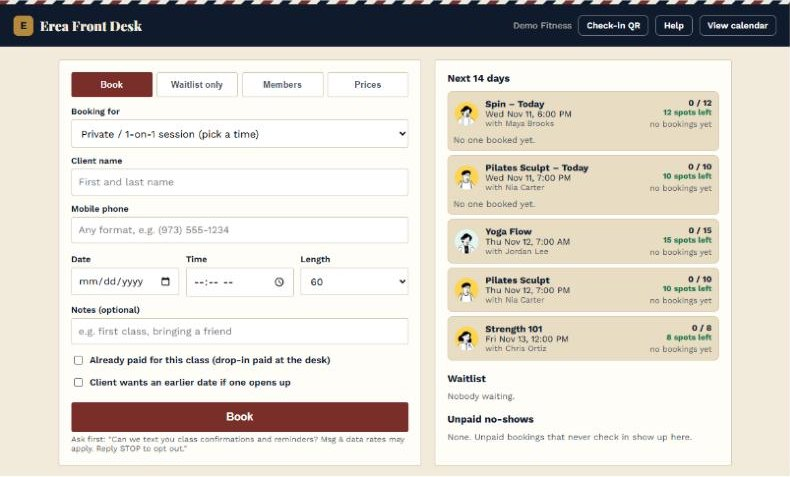
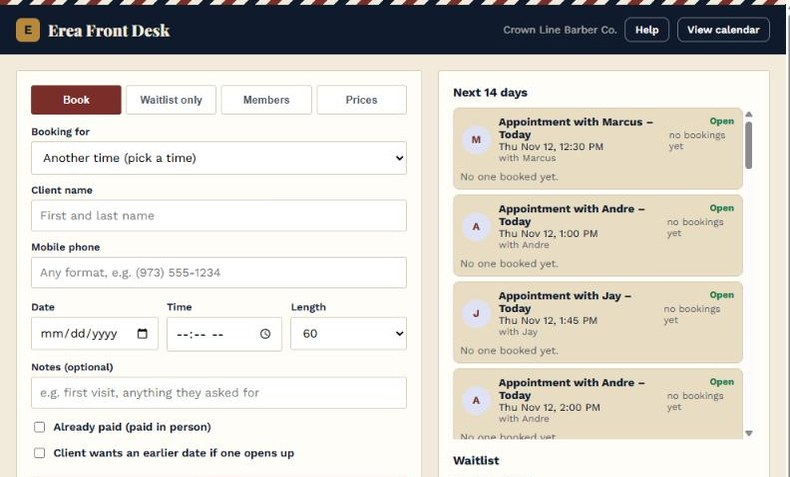
Barber sample: Crown Line uses its own barbershop booking page (appointments by barber), barber practice demo, new Crown Front Desk shot
Claude-Session: https://claude.ai/code/session_01HusocnsQM94pLVoFq2NPYV

diff --git a/demo.js b/demo.js
@@ -6,6 +6,8 @@
   var $ = function (s, r) { return (r || document).querySelector(s); };
   var esc = function (s) { return String(s).replace(/[&<>"']/g, function (c) { return { '&': '&amp;', '<': '&lt;', '>': '&gt;', '"': '&quot;', "'": '&#39;' }[c]; }); };
   var bizName = C.defaultName;
+  var A = !!C.appt; // appointment businesses (barbers etc.): times grouped under each person
+  function lab(s) { return A ? (s.who || s.name) : s.name; }
 
   // ---------- sample data (fictional) ----------
   var DAYS = [];
@@ -80,16 +82,29 @@
     if (sheet) {
       var s = sheet, full = spotsLeft(s) <= 0;
       h += '<div class="sheet"><button class="back" data-act="back">← Back</button>' +
-        '<h3>' + esc(s.name) + '</h3><p class="muted">' + fmtWhen(s) + (s.where ? '<br>📍 ' + esc(s.where) : '') + '</p>' +
-        (full ? '<p class="full-note">This one is full. Join the waitlist and you\'ll get a text the moment a spot opens.</p>' : '') +
+        '<h3>' + esc(A ? 'Your appointment' : s.name) + '</h3><p class="muted">' + (A ? 'with ' + esc(s.who) + '<br>' : '') + fmtWhen(s) + (s.where ? '<br>📍 ' + esc(s.where) : '') + '</p>' +
+        (full ? '<p class="full-note">' + (A ? 'This time is taken. Join the waitlist and you\'ll get a text if it opens up.' : 'This one is full. Join the waitlist and you\'ll get a text the moment a spot opens.') + '</p>' : '') +
         '<label>Your name<input id="yname" autocomplete="off" placeholder="e.g. Maya" maxlength="30"></label>' +
         '<label>Mobile number<input id="yphone" inputmode="tel" autocomplete="off" placeholder="(555) 555-0123" maxlength="20"></label>' +
         '<label class="chk"><input type="checkbox" id="yok"><span>I agree to get booking texts from <span data-biz>' + esc(bizName) + '</span>. Reply STOP to opt out.</span></label>' +
         '<p class="tiny">Practice demo: this number isn\'t saved and no real text is sent.</p>' +
-        '<button class="big" data-act="' + (full ? 'wait' : 'book') + '">' + (full ? 'Join the waitlist' : 'Book my spot') + '</button></div>';
+        '<button class="big" data-act="' + (full ? 'wait' : 'book') + '">' + (full ? 'Join the waitlist' : (A ? 'Book this time' : 'Book my spot')) + '</button></div>';
     } else {
       h += '<div class="chips">' + DAYS.map(function (d, i) { return '<button class="chip' + (i === state.cDay ? ' on' : '') + '" data-cday="' + i + '">' + dayLabel(d, i) + '</button>'; }).join('') + '</div>';
       var list = sessions.filter(function (s) { return s.day === state.cDay; });
+      if (A) {
+        var who = [], g = {};
+        list.forEach(function (s) { if (!g[s.who]) { g[s.who] = []; who.push(s.who); } g[s.who].push(s); });
+        h += '<div class="list">' + who.map(function (k) {
+          var open = g[k].filter(function (s) { return spotsLeft(s) > 0; }).length;
+          return '<div class="bcard"><div class="bh"><span class="bav">' + esc(k.charAt(0)) + '</span><span><b>' + esc(k) + '</b><small>' + (open ? open + (open === 1 ? ' open time' : ' open times') : 'Booked up · tap a time to join the waitlist') + '</small></span></div><div class="tbtns">' +
+            g[k].map(function (s) {
+              var mine = state.you && state.you.sid === s.id, full = spotsLeft(s) <= 0;
+              return '<button class="tbtn' + (mine ? ' mine' : full ? ' full' : '') + '" data-open="' + s.id + '">' + s.time + (mine ? ' ✓' : full ? '<small>Waitlist</small>' : '') + '</button>';
+            }).join('') + '</div></div>';
+        }).join('') + '</div>';
+        cEl.innerHTML = h; return;
+      }
       h += '<div class="list">' + list.map(function (s) {
         var left = spotsLeft(s), mine = state.you && state.you.sid === s.id;
         return '<button class="cls" data-open="' + s.id + '"><span class="ct">' + s.time + '</span><span class="cn"><b>' + esc(s.name) + '</b><small>' + esc(s.who) + (s.where ? ' · ' + esc(s.where) : '') + '</small></span>' +
@@ -115,22 +130,22 @@
         state.you = { sid: s.id, name: nm };
         sheet = null;
         addText(bizName, fill(C.txtBooked, first, s), ['C', 'R']);
-        logOwner('New booking: ' + nm + ' → ' + s.name + ', ' + fmtWhen(s) + '. Confirmation text sent.', 'new');
+        logOwner('New booking: ' + nm + ' → ' + lab(s) + ', ' + fmtWhen(s) + '. Confirmation text sent.', 'new');
       } else {
         s.wait.push({ name: nm + ' (you)', you: true });
         state.youWait = { sid: s.id, name: nm };
         sheet = null;
-        addText(bizName, 'Hi ' + first + '! You\'re on the waitlist for ' + s.name + ', ' + fmtWhen(s) + '. We\'ll text you the moment a spot opens.');
-        logOwner(nm + ' joined the waitlist for ' + s.name + ', ' + fmtWhen(s) + '.', 'new');
+        addText(bizName, 'Hi ' + first + '! You\'re on the waitlist for ' + (A ? 'a time with ' + s.who : s.name) + ', ' + fmtWhen(s) + '. We\'ll text you the moment ' + (A ? 'it opens up.' : 'a spot opens.'));
+        logOwner(nm + ' joined the waitlist for ' + lab(s) + ', ' + fmtWhen(s) + '.', 'new');
         setTimeout(function () { // simulate someone cancelling so they can try YES
           if (!state.youWait) return;
           var leaver = s.people.filter(function (p) { return !p.you; })[0];
           if (!leaver) return;
           s.people = s.people.filter(function (p) { return p !== leaver; });
-          logOwner(leaver.name + ' replied R (cancel). Spot opened in ' + s.name + '.', 'cancel');
+          logOwner(leaver.name + ' replied R (cancel). ' + (A ? 'Time opened with ' + s.who : 'Spot opened in ' + s.name) + '.', 'cancel');
           s.wait = s.wait.filter(function (w) { return !w.you; });
           s.offer = { name: nm };
-          addText(bizName, 'Good news ' + first + '! A spot just opened in ' + s.name + ', ' + fmtWhen(s) + '. Want it? Reply YES or NO.', ['YES', 'NO']);
+          addText(bizName, 'Good news ' + first + '! ' + (A ? 'A time with ' + s.who + ' just opened up: ' : 'A spot just opened in ' + s.name + ', ') + fmtWhen(s) + '. Want it? Reply YES or NO.', ['YES', 'NO']);
           logOwner('Waitlist offer texted to ' + nm + '.', 'offer');
         }, 4000);
       }
@@ -139,7 +154,7 @@
   });
   function byId(id) { return sessions.filter(function (s) { return s.id === id; })[0]; }
   function fill(tpl, first, s) {
-    return tpl.replace('{first}', first).split('{biz}').join(bizName).replace('{cls}', s.name).replace('{when}', fmtWhen(s)).replace('{where}', s.where);
+    return tpl.replace('{first}', first).split('{biz}').join(bizName).replace('{cls}', s.name).replace('{who}', s.who).replace('{when}', fmtWhen(s)).replace('{where}', s.where);
   }
   function reply(r) {
     var m = texts[texts.length - 1]; m.answered = r;
@@ -153,8 +168,8 @@
       var w = byId(state.youWait.sid); w.offer = null;
       w.people.push({ name: state.youWait.name + ' (you)', pay: C.newPay, you: true, fresh: true });
       state.you = { sid: w.id, name: state.youWait.name }; state.youWait = null;
-      logOwner('Replied YES → booked from the waitlist. Class full again.', 'ok');
-      addText(bizName, 'You\'re in! See you at ' + w.name + ', ' + fmtWhen(w) + '.');
+      logOwner('Replied YES → booked from the waitlist. ' + (A ? 'Time filled again.' : 'Class full again.'), 'ok');
+      addText(bizName, 'You\'re in! See you ' + (A ? 'with ' + w.who + ', ' : 'at ' + w.name + ', ') + fmtWhen(w) + '.');
     } else if (r === 'NO') { state.youWait = null; logOwner('Waitlist offer declined. Moving to the next person.', 'cancel'); addText(bizName, 'No problem. You\'re off the waitlist for this one.'); }
     renderClient(); renderOwner();
   }
@@ -184,7 +199,7 @@
       h += '<div class="chips">' + DAYS.map(function (d, i) { return '<button class="chip' + (i === state.oDay ? ' on' : '') + '" data-oday="' + i + '">' + dayLabel(d, i) + '</button>'; }).join('') + '</div>';
       sessions.filter(function (s) { return s.day === state.oDay; }).forEach(function (s) {
         var pct = Math.round(100 * s.people.length / s.cap);
-        h += '<div class="ocls"><div class="ocls-h"><div><b>' + s.time + ' · ' + esc(s.name) + '</b><small>' + esc(s.who) + (s.where ? ' · 📍 ' + esc(s.where) : '') + '</small></div><span class="cnt">' + s.people.length + '/' + s.cap + '</span></div>' +
+        h += '<div class="ocls"><div class="ocls-h"><div><b>' + s.time + ' · ' + esc(A ? s.who : s.name) + '</b><small>' + esc(A ? s.name : s.who) + (s.where ? ' · 📍 ' + esc(s.where) : '') + '</small></div><span class="cnt">' + (A ? (spotsLeft(s) <= 0 ? 'Booked' : 'Open') : s.people.length + '/' + s.cap) + '</span></div>' +
           '<div class="bar"><i style="width:' + pct + '%"></i></div>';
         s.people.forEach(function (p, i) {
           h += '<div class="row' + (p.fresh ? ' fresh' : '') + (p.you ? ' you' : '') + '"><span class="pn">' + esc(p.name) + '</span>' + payTag(p) +
@@ -194,10 +209,10 @@
         if (s.wait.length) h += '<div class="wl">Waitlist: ' + s.wait.map(function (w) { return esc(w.name); }).join(', ') + '</div>';
         h += '<form class="add" data-add="' + s.id + '"><input placeholder="+ Add a client by name" maxlength="20" aria-label="Add a client"><button>Add</button></form></div>';
       });
-      h += '<p class="hint">Try it: tap ✕ on someone in a full class and watch the waitlist refill the spot by itself.</p>';
+      h += '<p class="hint">' + (A ? 'Try it: tap ✕ on a booked time and watch the waitlist refill it by itself.' : 'Try it: tap ✕ on someone in a full class and watch the waitlist refill the spot by itself.') + '</p>';
     } else if (state.oTab === 'wait') {
       var any = false;
-      sessions.forEach(function (s) { s.wait.forEach(function (w) { any = true; h += '<div class="lrow"><b>' + esc(w.name) + '</b><span>' + esc(s.name) + ' · ' + fmtWhen(s) + '</span><em class="tag t-wait">waiting</em></div>'; }); });
+      sessions.forEach(function (s) { s.wait.forEach(function (w) { any = true; h += '<div class="lrow"><b>' + esc(w.name) + '</b><span>' + esc(lab(s)) + ' · ' + fmtWhen(s) + '</span><em class="tag t-wait">waiting</em></div>'; }); });
       if (!any) h += '<p class="muted">Nobody waiting right now.</p>';
       h += '<p class="hint">When a spot opens, the next person gets a text. If they don\'t answer in 2 hours, it moves to the next one.</p>';
     } else if (state.oTab === 'members') {
@@ -209,7 +224,7 @@
         '<div class="kpis"><div><b>7</b>spots refilled by text</div><div><b>$175</b>kept from cancellations</div><div><b>2</b>no-shows</div><div><b>4</b>new clients</div></div>' +
         '<p class="muted">Emailed to you every Monday at 8 AM.</p></div>';
     } else if (state.oTab === 'share') {
-      h += '<div class="rep"><h4>Your booking link</h4><div class="linkbox">ereaai.com/book?b=<i>your-studio</i></div><div class="linkbox">🖨 Plus a printed QR code for your front door</div><p class="muted">Share it in your bio, print the QR for the door, or text it to clients.</p></div>';
+      h += '<div class="rep"><h4>Your booking link</h4><div class="linkbox">ereaai.com/book?b=<i>' + (A ? 'your-business' : 'your-studio') + '</i></div><div class="linkbox">🖨 Plus a printed QR code for your front door</div><p class="muted">Share it in your bio, print the QR for the door, or text it to clients.</p></div>';
     }
     oEl.innerHTML = h;
     sessions.forEach(function (s) { s.people.forEach(function (p) { if (p.fresh) setTimeout(function () { p.fresh = false; }, 2500); }); });
@@ -226,8 +241,8 @@
     }
     if (t.dataset.x) {
       var b = t.dataset.x.split(':'), s = byId(+b[0]), gone = s.people.splice(+b[1], 1)[0];
-      if (gone.you) { state.you = null; addText(bizName, 'Your booking for ' + s.name + ' was cancelled by the front desk.'); }
-      logOwner(gone.name + ' cancelled from ' + s.name + '. Spot reopened.', 'cancel');
+      if (gone.you) { state.you = null; addText(bizName, 'Your booking ' + (A ? 'with ' + s.who : 'for ' + s.name) + ' was cancelled by the front desk.'); }
+      logOwner(gone.name + ' cancelled from ' + lab(s) + '. ' + (A ? 'Time reopened.' : 'Spot reopened.'), 'cancel');
       refill(s); renderClient(); return;
     }
   });
@@ -235,8 +250,8 @@
     e.preventDefault();
     var f = e.target, s = byId(+f.dataset.add), v = f.querySelector('input').value.trim().replace(/[^\p{L}\p{N} .'-]/gu, '').slice(0, 20);
     if (!v) return;
-    if (spotsLeft(s) <= 0) { s.wait.push({ name: v }); logOwner(v + ' added to the waitlist (class is full).', 'new'); }
-    else { s.people.push({ name: v, pay: PAYS[PAYS.length - 1], fresh: true }); logOwner('Added ' + v + ' to ' + s.name + '. Confirmation text sent.', 'new'); }
+    if (spotsLeft(s) <= 0) { s.wait.push({ name: v }); logOwner(v + ' added to the waitlist (' + (A ? 'time is taken' : 'class is full') + ').', 'new'); }
+    else { s.people.push({ name: v, pay: PAYS[PAYS.length - 1], fresh: true }); logOwner('Added ' + v + ' to ' + lab(s) + '. Confirmation text sent.', 'new'); }
     renderClient();
   });
 

diff --git a/demo-barber.html b/demo-barber.html
@@ -1,0 +1,120 @@
+<!doctype html>
+<html lang="en">
+<head>
+<meta charset="utf-8">
+<meta name="viewport" content="width=device-width, initial-scale=1">
+<title>Erea practice demo: barbershop</title>
+<meta name="description" content="A hands-on practice demo of Erea for a barbershop. Nothing you type is saved and no texts are sent.">
+<meta name="robots" content="noindex">
+<meta name="theme-color" content="#FFF8EF">
+<link rel="icon" href="/favicon.png">
+<link rel="preconnect" href="https://fonts.googleapis.com">
+<link rel="preconnect" href="https://fonts.gstatic.com" crossorigin>
+<link rel="stylesheet" href="https://fonts.googleapis.com/css2?family=Archivo:wght@700;800;900&family=DM+Sans:wght@400;500;700&display=swap">
+<link rel="stylesheet" href="/site.css?v=20261111b">
+<link rel="stylesheet" href="/demo.css?v=20261112a">
+<link rel="stylesheet" href="https://fonts.googleapis.com/css2?family=Playfair+Display:wght@700;900&family=Work+Sans:wght@400;500;600;700&display=swap">
+<style>:root{--acc:#C8402A} .intro h1 em{font-style:normal;color:#C8402A} .btn.pri{background:#C8402A} .btn.pri:hover{background:#A9321F} .logo span{color:#C8402A}</style>
+<style>
+.samples{margin:28px 0 0;background:#fff;border:1px solid var(--line);border-radius:24px;padding:24px}
+.samples h3{margin:0;font-size:clamp(22px,3vw,28px)}
+.samples>p{margin:6px 0 0;color:#4A4458;max-width:640px}
+.sgrid{display:grid;grid-template-columns:repeat(auto-fit,minmax(260px,1fr));gap:14px;margin-top:18px}
+.scard{display:block;text-decoration:none;border-radius:18px;padding:24px 22px 20px;position:relative;overflow:hidden;transition:transform .15s}
+.scard:hover{transform:translateY(-2px)}
+.scard small{display:block;font-size:12px;letter-spacing:2px;text-transform:uppercase;opacity:.75}
+.scard b{display:block;font-size:28px;line-height:1.1;margin:8px 0 10px;font-weight:400}
+.scard span{font-size:14px;font-weight:700}
+.sc-linen{background:#F5EFE6;color:#2A2420;border:1px solid #E6DDD1}
+.sc-linen b{font-family:'Cormorant Garamond',Georgia,serif;text-transform:uppercase;letter-spacing:3px}
+.sc-crown{background:#0F1B2D;color:#F2EADB}
+.sc-crown:before{content:"";position:absolute;left:0;right:0;top:0;height:8px;background:repeating-linear-gradient(135deg,#7A2E2A 0 12px,#F2EADB 12px 24px,#0F1B2D 24px 36px,#F2EADB 36px 48px)}
+.sc-crown b{font-family:'Playfair Display',Georgia,serif;font-weight:900}
+.sc-crown span{color:#D2A85A}
+</style>
+<style>
+/* The client phone and Front Desk in the business's own look: Crown (barbers) */
+#client,#owner{--acc:#7A2E2A;--navy:#0F1B2D;--ink:#0F1B2D;--muted:#4F5868;--line:#D6CBB6;--cream:#F2EADB;font-family:'Work Sans',system-ui,sans-serif;color:#0F1B2D}
+#client{background:#F2EADB;position:relative;padding-top:30px}
+#client:before,#owner:before{content:"";position:absolute;left:0;right:0;top:0;height:8px;background:repeating-linear-gradient(135deg,#7A2E2A 0 12px,#F2EADB 12px 24px,#0F1B2D 24px 36px,#F2EADB 36px 48px)}
+#owner{position:relative;overflow:hidden;padding-top:26px;background:#FFFDF8}
+#client .ph-name,#owner .o-name{font-family:'Playfair Display',Georgia,serif;font-weight:900}
+#client .ph-kicker,#owner .o-kicker{color:#B8893B;letter-spacing:2px}
+#client .bcard,#client .tbtn,#client .chip,#owner .chip,#client .sheet input,#client .big,#owner .ocls,#owner .ci,#owner .tag,#owner .otabs button,#owner .add input,#owner .add button{border-radius:2px}
+#client .bcard{background:#FFFDF8}
+#client .chip.on,#owner .chip.on{background:#B8893B;border-color:#B8893B;color:#0F1B2D}
+#client .big{background:#0F1B2D;color:#F2EADB;letter-spacing:2px;text-transform:uppercase;font-size:14px}
+#client .logo-slot,#owner .logo-slot{border-color:#B8893B;color:#B8893B}
+</style>
+</head>
+<body data-view="client">
+<header class="dnav"><div class="wrap">
+  <a class="logo" href="/"><img src="/icon-192.png" alt="" width="30" height="30" style="border-radius:8px"><b style="font-weight:900">erea<span>.</span>ai</b></a>
+  <span class="pbadge">Practice demo</span>
+  <div class="right"><a class="back" href="/">← Back to site</a></div>
+</div></header>
+<div class="notice"><div class="wrap">🛟 <b>Practice demo.</b> Tap anything. Nothing you type is saved and no real texts are sent. Want to see real texts land on your own phone? <a href="/#join">Ask us for a live demo</a>.</div></div>
+
+<main class="wrap">
+  <section class="intro" style="padding:26px 0 8px">
+    <h1>Try Erea as a client <em>and</em> as the shop.</h1>
+    <p>Book a cut as a client and watch it land on the Front Desk. Tap a taken time to join the waitlist, or tap ✕ on a booked time and see the waitlist refill it by text.</p>
+    <p>Shown in the <b>Crown</b> look, made for barbers. Running a gym or studio? <a href="/demo">See the fitness version →</a></p>
+    <p>Want to see a whole website? <a href="/sites/crownline/" target="_blank" rel="noopener">See the Crown Line sample barbershop site →</a></p>
+    <div class="brand">
+      <div class="logo-slot" aria-hidden="true">YOUR<br>LOGO</div>
+      <label for="bizname">Type your business name: <input id="bizname" maxlength="40" autocomplete="off" placeholder="e.g. Fresh Cuts Barbershop"></label>
+      <div class="bnote">Your logo and business name go on your website, booking page and Front Desk, and your name is on every text. All included with Erea.</div>
+    </div>
+  </section>
+
+  <div class="vtabs" role="tablist">
+    <button class="vtab" role="tab" data-v="client" aria-selected="true">📱 Client view</button>
+    <button class="vtab" role="tab" data-v="owner" aria-selected="false">🖥 Owner view</button>
+  </div>
+
+  <div class="stage">
+    <div class="pane-client"><p class="vlabel">📱 What your clients see</p><div class="phone2"><div class="app" id="client"></div></div></div>
+    <div class="pane-owner"><p class="vlabel">🖥 What you and your barbers see</p><div class="desk" id="owner"></div></div>
+  </div>
+
+  <div class="samples" style="margin-bottom:28px" id="samples">
+      <h3>Now see a full website</h3>
+      <p>Two full websites built with Erea, booking and waitlist included. Scroll them, tap around, try them on your phone. Yours gets your name, photos and prices.</p>
+      <div class="sgrid">
+        <a class="scard sc-linen" href="/sites/willow/" target="_blank" rel="noopener"><small>Look A · Linen · Pilates studio</small><b>Willow Studio</b><span>Open the sample site →</span></a>
+        <a class="scard sc-crown" href="/sites/crownline/" target="_blank" rel="noopener"><small>Look E · Crown · Barbershop</small><b>Crown Line Barber Co.</b><span>Open the sample site →</span></a>
+      </div>
+    </div>
+  <section class="endcta">
+    <div><h2>Like what you see?</h2><p>We set it all up for you, website included. The first 15 businesses keep $79 a month for life. No contract, no cut of your sales.</p></div>
+    <div class="btns"><a class="btn pri" href="https://buy.stripe.com/aFadR9fiS6UD4weeji3VC03" data-founding="79">Claim a founding spot ($79/mo)</a><a class="btn sec" style="background:transparent;color:#fff;border-color:#fff" href="/#join">Join the interest list</a></div>
+  </section>
+</main>
+<div id="toast" role="status"></div>
+<script>window.EREA_DEMO={ownerTabLabel:'Owner view', appt:true,
+  defaultName:'Crown Line Barber Co.', logo:true, bookTitle:'Book a cut', ownerTitle:'Front Desk',
+  newPay:'unpaid', pays:['paid','unpaid'],
+  payLabels:{paid:'Paid',unpaid:'Pay at shop'},
+  ownerTabs:[['today','Today'],['wait','Waitlist'],['members','Clients'],['report','Monday report'],['share','Booking link']],
+  planWord:'Plan',
+  schedule:[
+    {time:'10:00 AM',name:'Appointment',who:'Andre',cap:1},
+    {time:'10:30 AM',name:'Appointment',who:'Marcus',cap:1,full:true},
+    {time:'11:00 AM',name:'Appointment',who:'Andre',cap:1,full:true},
+    {time:'11:45 AM',name:'Appointment',who:'Jay',cap:1},
+    {time:'12:30 PM',name:'Appointment',who:'Marcus',cap:1},
+    {time:'1:00 PM',name:'Appointment',who:'Andre',cap:1},
+    {time:'1:45 PM',name:'Appointment',who:'Jay',cap:1,full:true},
+    {time:'2:00 PM',name:'Appointment',who:'Andre',cap:1,full:true},
+    {time:'3:30 PM',name:'Appointment',who:'Marcus',cap:1},
+    {time:'3:45 PM',name:'Appointment',who:'Jay',cap:1},
+    {time:'4:00 PM',name:'Appointment',who:'Andre',cap:1},
+    {time:'5:30 PM',name:'Appointment',who:'Marcus',cap:1}
+  ],
+  members:[['Jordan T.','Monthly cut club','2','Dec 1'],['Dev P.','4-cut pack','3','—'],['Luis M.','Pay per visit','—','—']],
+  txtBooked:"Hi {first}! You're booked with {who} at {biz}, {when}. Reply C to confirm or R to cancel. Reply STOP to opt out."
+};</script>
+<script src="/demo.js?v=20261112a"></script>
+</body>
+</html>

diff --git a/demo.html b/demo.html
@@ -12,7 +12,7 @@
 <link rel="preconnect" href="https://fonts.gstatic.com" crossorigin>
 <link rel="stylesheet" href="https://fonts.googleapis.com/css2?family=Archivo:wght@700;800;900&family=DM+Sans:wght@400;500;700&display=swap">
 <link rel="stylesheet" href="/site.css?v=20261111b">
-<link rel="stylesheet" href="/demo.css?v=20261109b">
+<link rel="stylesheet" href="/demo.css?v=20261112a">
 <style>:root{--acc:#C8402A} .intro h1 em{font-style:normal;color:#C8402A} .btn.pri{background:#C8402A} .btn.pri:hover{background:#A9321F} .logo span{color:#C8402A}</style>
 <style>
 .samples{margin:28px 0 0;background:#fff;border:1px solid var(--line);border-radius:24px;padding:24px}
@@ -45,6 +45,7 @@
     <h1>Try Erea as a client <em>and</em> as the owner.</h1>
     <p>Book a class as a client, and watch it land on the Front Desk. Cancel someone in a full class and see the waitlist refill the spot by text.</p>
     <p>Want to see a whole website? <a href="#samples">Take a look at our two sample sites ↓</a></p>
+    <p>Run a barbershop or salon? <a href="/demo-barber">See the barber version, with each barber's open times →</a></p>
     <div class="brand">
       <div class="logo-slot" aria-hidden="true">YOUR<br>LOGO</div>
       <label for="bizname">Type your business name: <input id="bizname" maxlength="40" autocomplete="off" placeholder="e.g. Crown Line Barbers"></label>
@@ -92,6 +93,6 @@
   members:[['Maya R.','Unlimited','∞','Dec 1'],['Jordan T.','10-class pack','6','—'],['Aisha K.','Unlimited','∞','Nov 28'],['Luis M.','5-class pack','2','—'],['Kemi A.','Drop-in','—','—']],
   txtBooked:"Hi {first}! You're booked at {biz}: {cls}, {when}. Reply C to confirm or R to cancel. Reply STOP to opt out."
 };</script>
-<script src="/demo.js?v=20261111a"></script>
+<script src="/demo.js?v=20261112a"></script>
 </body>
 </html>

diff --git a/solo/demo.html b/solo/demo.html
@@ -12,7 +12,7 @@
 <link rel="preconnect" href="https://fonts.gstatic.com" crossorigin>
 <link rel="stylesheet" href="https://fonts.googleapis.com/css2?family=Archivo:wght@700;800;900&family=DM+Sans:wght@400;500;700&display=swap">
 <link rel="stylesheet" href="/site.css?v=20261111b">
-<link rel="stylesheet" href="/demo.css?v=20261109b">
+<link rel="stylesheet" href="/demo.css?v=20261112a">
 <style>:root{--acc:#137A6F} .intro h1 em{font-style:normal;color:#137A6F} .btn.pri{background:#137A6F} .btn.pri:hover{background:#0E5A52} .logo span{color:#137A6F}</style>
 <link rel="stylesheet" href="https://fonts.googleapis.com/css2?family=Cormorant+Garamond:wght@600&family=Oswald:wght@500&family=DM+Serif+Display&family=Nunito:wght@600&display=swap">
 <style>
@@ -104,7 +104,7 @@ body[data-sstyle=sky] #client .ph-name,body[data-sstyle=sky] #owner .o-name{font
   members:[['Maya R.','10-session package','7','—'],['Jordan T.','Monthly privates','4','Nov 30'],['Aisha K.','5-session package','1','—'],['Dev P.','Drop-in','—','—']],
   txtBooked:"Hi {first}! You're booked with {biz}: {cls}, {when}. Where: {where}. Please pay {biz} before your session. Reply C to confirm or R to cancel."
 };</script>
-<script src="/demo.js?v=20261111a"></script>
+<script src="/demo.js?v=20261112a"></script>
 <script>document.querySelectorAll('.sbtn').forEach(function(b){b.addEventListener('click',function(){document.querySelectorAll('.sbtn').forEach(function(x){x.setAttribute('aria-pressed',x===b);});if(b.dataset.s)document.body.setAttribute('data-sstyle',b.dataset.s);else document.body.removeAttribute('data-sstyle');});});try{var q=new URLSearchParams(location.search).get('style');var t=q&&document.querySelector('.sbtn[data-s="'+q.replace(/[^a-z]/g,'')+'"]');if(t)t.click();}catch(e){}</script>
 
 </body>

diff --git a/demo.css b/demo.css
@@ -118,3 +118,16 @@ body{background:var(--cream)}
 .vtab{font-size:15px;padding:10px 8px}
 @media(max-width:999px){.only-wide{display:none}}
 @media(min-width:1000px){.only-narrow{display:none}}
+
+/* appointment businesses (barber demo): open times grouped under each person */
+.bcard{background:#fff;border:1px solid var(--line);border-radius:14px;padding:12px 14px}
+.bcard .bh{display:flex;align-items:center;gap:10px}
+.bcard .bh b{display:block;font-size:16px;color:var(--navy)}
+.bcard .bh small{display:block;font-size:13px;color:var(--muted)}
+.bav{flex:none;width:36px;height:36px;border-radius:50%;background:var(--cream);display:grid;place-items:center;font-weight:800;color:var(--navy)}
+.tbtns{display:flex;flex-wrap:wrap;gap:6px;margin-top:10px}
+.tbtn{font:inherit;font-weight:700;font-size:14px;padding:8px 12px;border-radius:999px;border:1.5px solid var(--navy);background:transparent;color:var(--navy);cursor:pointer}
+.tbtn:hover{background:var(--navy);color:#fff}
+.tbtn.full{border-style:dashed;border-color:var(--line);color:var(--muted);font-weight:600}
+.tbtn.full small{font-size:10px;margin-left:6px;text-transform:uppercase;letter-spacing:.5px}
+.tbtn.mine{background:var(--navy);color:#fff}

diff --git a/sites/crownline/index.html b/sites/crownline/index.html
@@ -146,8 +146,8 @@ h1,h2{font-weight:900}
 <section id="book" class="wrap sec">
   <div class="sh"><span class="k">Takes a few seconds</span><h2>Book a cut</h2>
   <p class="sub">Pick a time, add your name and phone, done. You'll get a text to confirm. Full? Join the waitlist right here.</p></div>
-  <div class="bookbox"><iframe src="https://script.google.com/macros/s/AKfycbxnhmsae-Wl7sJSyyo6Zg5PSRsYzGLPsq7cWicfp-AxL3M8yOcO9cjweCp2rJEhTICx/exec?b=8faa2137aeb6&theme=crown" title="Book with Crown Line Barber Co."></iframe></div>
-  <p class="small"><a href="https://ereaai.com/book?b=8faa2137aeb6&n=Crown%20Line%20Barber%20Co.&theme=crown">Open booking full screen</a></p>
+  <div class="bookbox"><iframe src="https://script.google.com/macros/s/AKfycbxnhmsae-Wl7sJSyyo6Zg5PSRsYzGLPsq7cWicfp-AxL3M8yOcO9cjweCp2rJEhTICx/exec?b=7631f4920092&theme=crown" title="Book with Crown Line Barber Co."></iframe></div>
+  <p class="small"><a href="https://ereaai.com/book?b=7631f4920092&n=Crown%20Line%20Barber%20Co.&theme=crown">Open booking full screen</a></p>
 </section>
 <section class="wrap sec">
   <div class="sh"><span class="k">Good to know</span><h2>Questions</h2></div>

diff --git a/styles.html b/styles.html
@@ -445,7 +445,7 @@
         <div class="b-in">You're in! See you at 1:15.</div>
       </div>
     </div>
-    <div class="deskshot"><a href="/desk-crown.jpg" target="_blank" rel="noopener"><img src="/desk-crown.jpg" alt="The Erea Front Desk in the Crown look" loading="lazy" width="790" height="477"></a>
+    <div class="deskshot"><a href="/desk-crown.jpg?v=2" target="_blank" rel="noopener"><img src="/desk-crown.jpg?v=2" alt="The Erea Front Desk in the Crown look" loading="lazy" width="790" height="477"></a>
       <div><b>Your Front Desk, in your colors</b>The screen you and your team use to book, check people in and see the waitlist matches your website too. Tap to see it bigger, or <a href="/demo">try it in the demo</a>.</div></div>
     <div class="look-foot"><span>Sample business: Crown Line Barber Co. · <a href="/sites/crownline/" target="_blank" rel="noopener">See the live sample site</a></span><a href="https://buy.stripe.com/aFadR9fiS6UD4weeji3VC03" data-founding="79">I want this look →</a></div>
   </article>
